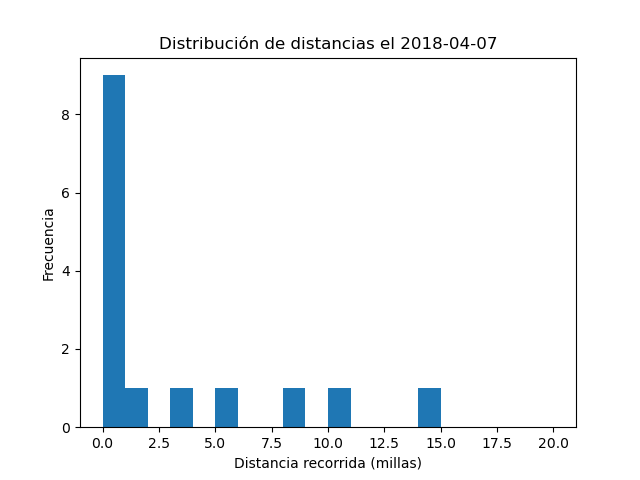
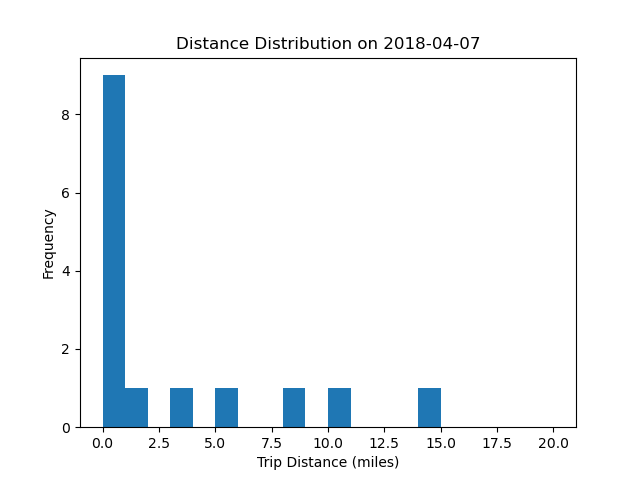
Translate English

Changed region(s): [[0.25, 0.0625, 0.7812, 0.125], [0.375, 0.9375, 0.6562, 1.0], [0.0625, 0.4375, 0.0938, 0.5938]]

diff --git a/mobility_data_analysis/shared_mobility/main.py b/mobility_data_analysis/shared_mobility/main.py
@@ -9,30 +9,30 @@ import pandas as pd
 import os
 import matplotlib.pyplot as plt
 import numpy as np
-"""
-# leer archivo CSV en fragmentos de 100,000 filas cada uno
+
+"""# Read CSV file in chunks of 100,000 rows each
 chunk_size = 100000
-i=0
+i = 0
 for chunk in pd.read_csv('data/Shared_Micromobility_Vehicle_Trips.csv', chunksize=chunk_size):
-    i+=1
+    i += 1
     break"""
 
-# Leer el archivo CSV
+# Read CSV file
 df = pd.read_csv('data/Shared_Micromobility_Vehicle_Trips.csv')
 
-# Convertir la columna 'Start Time' en un objeto de tipo fecha y hora
+# Convert 'Start Time' column to datetime object
 df['Start Time'] = pd.to_datetime(df['Start Time'])
 
-# Extraer la fecha de cada viaje y guardarla en una nueva columna 'Date'
+# Extract date from each trip and store it in a new 'Date' column
 df['Date'] = df['Start Time'].dt.date
 
-# Crear una matriz origen-destino por día
+# Create an origin-destination matrix per day
 for date, group in df.groupby('Date'):
-    # Crear la matriz origen-destino
+    # Create origin-destination matrix
     trips = group.groupby(['Council District (Start)', 'Council District (End)']).size().reset_index(name='counts')
     matrix = pd.pivot_table(trips, values='counts', index=['Council District (Start)'], columns=['Council District (End)'], fill_value=0)
 
-    # Crear un gráfico de la matriz origen-destino
+    # Create a heatmap of the origin-destination matrix
     fig, ax = plt.subplots()
     im = ax.imshow(matrix, cmap='Blues', interpolation='nearest')
     ax.set_xticks(np.arange(len(matrix.columns)))
@@ -43,8 +43,17 @@ for date, group in df.groupby('Date'):
     for i in range(len(matrix.index)):
         for j in range(len(matrix.columns)):
             text = ax.text(j, i, matrix.iloc[i, j], ha="center", va="center", color="w")
-    ax.set_title('Matriz origen-destino el {}'.format(date))
-    plt.savefig('Resultados/{}.png'.format(date))
+    ax.set_title('Origin-Destination Matrix on {}'.format(date))
+    plt.savefig('Results/{}.png'.format(date))
+    plt.close(fig)
+
+    # Create a histogram of trip distances
+    fig, ax = plt.subplots()
+    ax.hist(group['Trip Distance'], bins=20, range=(0,20))
+    ax.set_xlabel('Trip Distance (miles)')
+    ax.set_ylabel('Frequency')
+    ax.set_title('Distance Distribution on {}'.format(date))
+    plt.savefig('Distance/{}.png'.format(date))
     plt.close(fig)
 
     # Crear un gráfico de histograma de distancia recorrida
